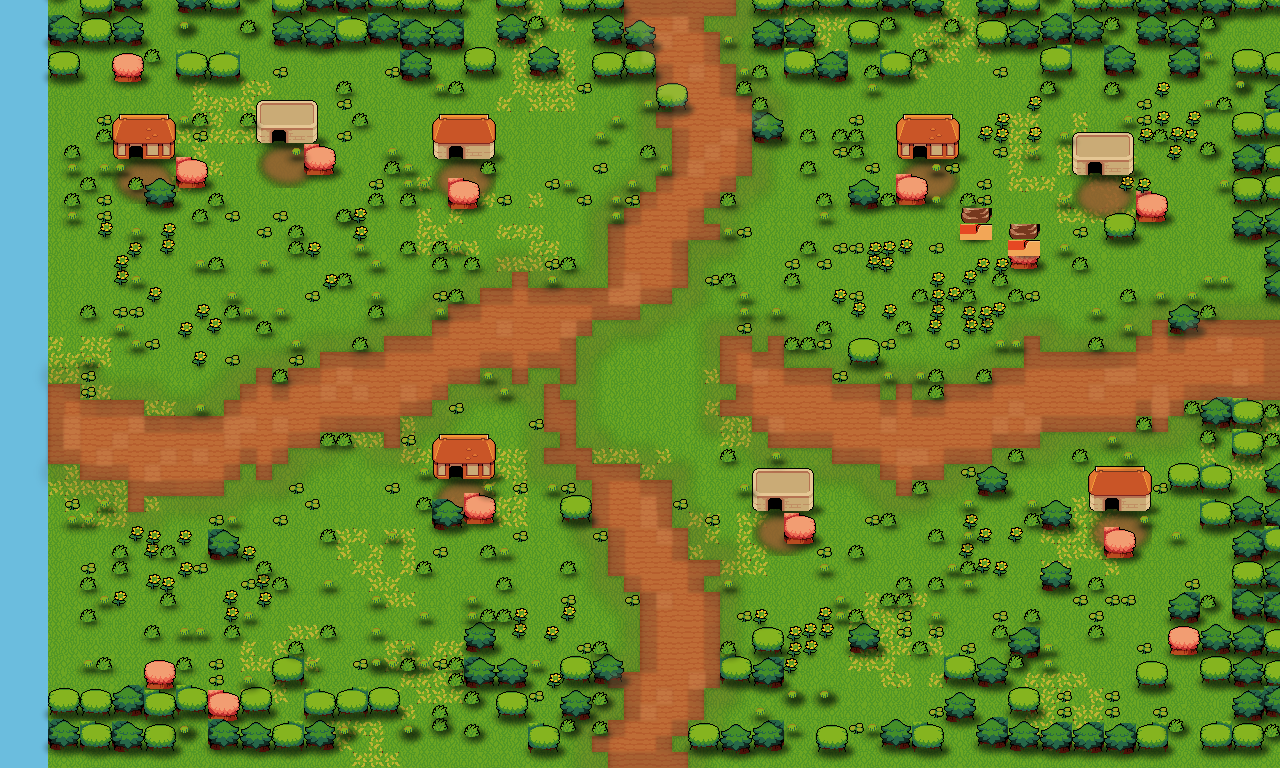
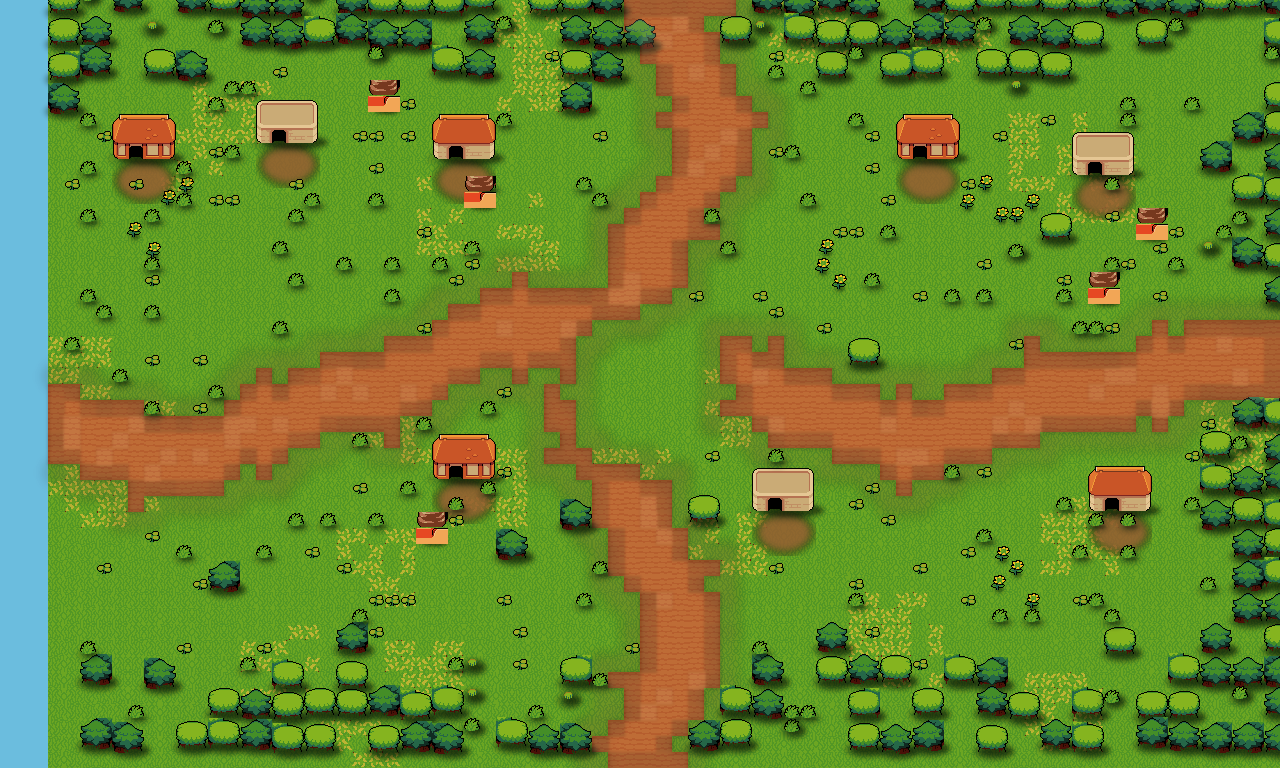
Cut visual noise — drop cherry blossoms and slash bush density
The user's close-up screenshot review found the village still looked
'rectangular and broken' — two distinct sources:

1. Cherry blossom trees. The 32×32 pink sprite next to red house roofs
   and orange path tiles read as a small red rectangle, not as a
   pink-flowered tree. At our camera zoom (1.4 - 1.7x) the pink-on-
   red collision was visually jarring. Removed cherry trees from the
   forest pass and from the per-house accent pass. Forest is now
   uniformly green.

2. Bush + grass-tuft density was too high. Every 8th tile or so had
   either a bush, a sunflower, or a tuft, which at close range read
   as a checkerboard of small rectangles. Cut bush probability
   0.12 -> 0.04, dropped BUSH_SM (its tiny silhouette was a
   recognizable rectangle), kept BUSH_BIG only. Flower bed count
   14 -> 4 with tighter 3-5 flower clusters.

Total decoration objects went from 230+ to ~90. Map now reads as
"village with woods" instead of "every patch covered in stuff."

diff --git a/tools/build_village.py b/tools/build_village.py
@@ -409,13 +409,13 @@ def main() -> None:
         return True
 
     def pick_forest_obj(depth: int, allow_cherry: bool):
-        """Return (img, hflip_ok). Cherry trees have a visible trunk on
-        one side — flipping them mirrors the trunk wrong. Round trees are
-        symmetric enough to flip safely."""
+        """Return (img, hflip_ok). Cherry trees disabled — at the camera
+        zoom we're using, their pink 32×32 sprite reads as a red
+        rectangle next to other red elements (house roofs) and looked
+        broken. Stick to green trees for a unified forest tone."""
+        del allow_cherry  # no longer used
         r = random.random()
-        if allow_cherry and r < 0.08:
-            return (CHERRY_BIG if r < 0.04 else CHERRY_SM, False)
-        if r < 0.18:
+        if r < 0.10:
             return (random.choice(MID_FILLERS), False)
         return (random.choice(TREES_BIG), random.random() < 0.5)
 
@@ -426,33 +426,26 @@ def main() -> None:
             # density: 0.92 at edge, fading to 0.05 by depth 8
             density = max(0.05, 0.92 - depth * 0.115)
             if random.random() < density:
-                obj, hflip = pick_forest_obj(depth, allow_cherry=(depth >= 3))
+                obj, hflip = pick_forest_obj(depth, allow_cherry=False)
                 place_object(tx, ty, obj, hflip=hflip)
 
-    # A few cherry accents inside the village (no flip — trunk visible)
-    for (hx, hy, hw, hh) in house_rects:
-        for _ in range(3):
-            tx = (hx // TILE) + random.randint(-2, 4)
-            ty = (hy // TILE) + random.randint(3, 5)
-            if 4 <= tx < cols - 3 and 2 <= ty < rows - 3:
-                if place_object(tx, ty, CHERRY_SM, hflip=False):
-                    break
+    # Cherry-blossom-near-house pass disabled — same reason.
 
     # 6a) Flower beds — pick a dozen cluster centers in open grass and
     # scatter 4-8 sunflowers around each so they read as flower beds
     # rather than randomly sprinkled single flowers.
     flowerbeds = 0
     attempts = 0
-    while flowerbeds < 14 and attempts < 200:
+    while flowerbeds < 4 and attempts < 100:
         attempts += 1
-        cxx = random.randint(6, cols - 6)
-        cyy = random.randint(4, rows - 5)
-        if on_path(cxx, cyy) or near_path(cxx, cyy, 2):
+        cxx = random.randint(8, cols - 8)
+        cyy = random.randint(6, rows - 7)
+        if on_path(cxx, cyy) or near_path(cxx, cyy, 3):
             continue
         if (cxx, cyy) in occupied or overlaps_house(cxx * TILE, cyy * TILE, 64, 64):
             continue
-        # Plant a cluster
-        n = random.randint(4, 8)
+        # Plant a small tight cluster (3-5 instead of 4-8)
+        n = random.randint(3, 5)
         planted = 0
         for _ in range(n * 2):
             dx = random.randint(-2, 2)
@@ -487,18 +480,17 @@ def main() -> None:
             if overlaps_house(px, py):
                 continue
             roll = random.random()
-            if roll < 0.12:
-                # Generous AO under bush so its brown base reads as
-                # "in shade of plant", not as a misplaced dirt tile.
+            if roll < 0.04:    # bushes — way sparser (was 0.12)
                 darken_grass_patch(bg, px + TILE // 2 + 1, py + TILE - 2,
                                    TILE // 2 + 3, 5, alpha=80)
                 draw_shadow(bg, px + TILE // 2 + 2, py + TILE - 2,
                             7, 2, alpha=90, blur=1.4)
-                stamp(bg, BUSH_BIG if random.random() < 0.5 else BUSH_SM,
-                      px, py)
+                # Only the big leafy bush — small bush had visible
+                # rectangular silhouette at close zoom.
+                stamp(bg, BUSH_BIG, px, py)
                 occupied.add((tx, ty))
                 decor += 1
-            elif roll < 0.18:
+            elif roll < 0.08:
                 stamp(bg, GRASS_TUFT, px, py)
 
     # 7) Scattered boulders in clearings (1-2 per quadrant)
